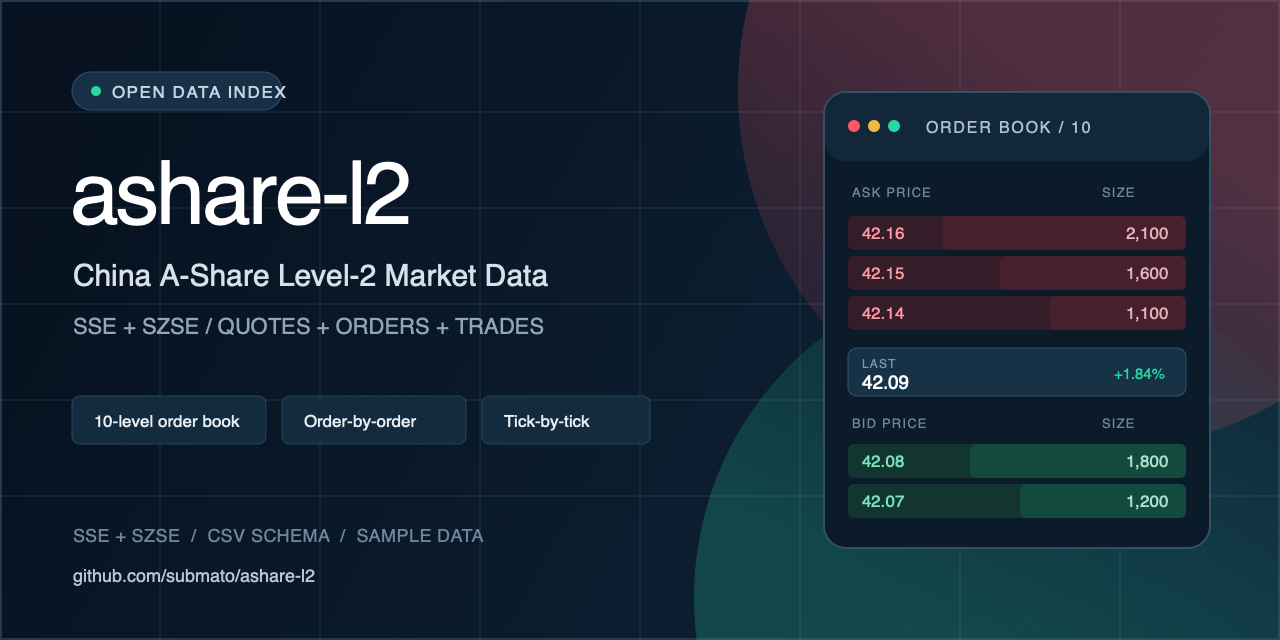
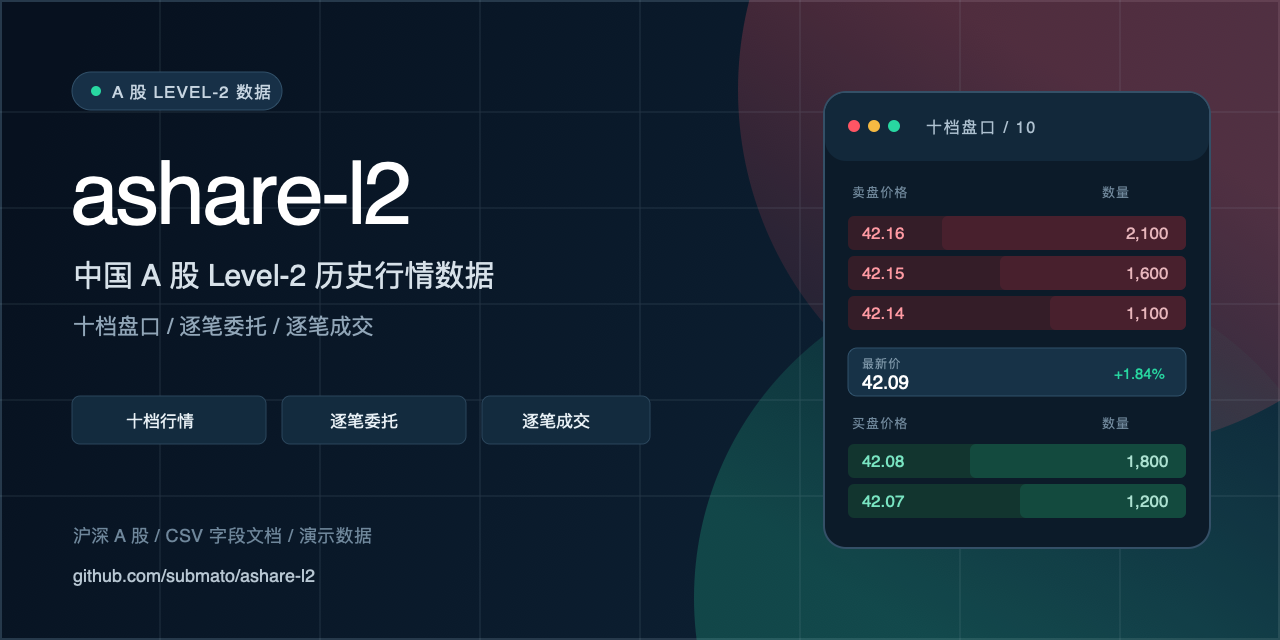
Make Chinese the primary repository language

diff --git a/README.md b/README.md
@@ -1,4 +1,4 @@
-# A 股 Level-2 历史行情数据集 | China A-Share L2 Market Data
+# A 股 Level-2 历史行情数据
 
 [![License: MIT](https://img.shields.io/badge/code%20%26%20docs-MIT-2ea44f.svg)](LICENSE)
 [![Data Format](https://img.shields.io/badge/data-CSV-0969da.svg)](docs/schema.md)
@@ -6,9 +6,9 @@
 
 **ashare-l2 是中国 A 股 Level-2 历史行情数据的公开索引与格式样例**，覆盖沪深市场十档盘口快照、逐笔委托和逐笔成交 CSV，适合量化研究、市场微观结构分析、订单流研究与回测数据准备。
 
-**ashare-l2 is an index and schema reference for China A-share Level-2 market data**, including 10-level order book snapshots, order-by-order events and tick-by-tick trades from the Shanghai and Shenzhen stock markets.
+> English: ashare-l2 is an index and schema reference for China A-share Level-2 market data, including 10-level order book snapshots, order-by-order events and tick-by-tick trades.
 
-[数据下载](#免费数据怎么下载) · [字段说明](docs/schema.md) · [数据卡](docs/data-card.md) · [Python 读取示例](#如何读取-csv) · [English summary](#english-summary) · [FAQ](#常见问题)
+[数据下载](#免费数据怎么下载) · [字段说明](docs/schema.md) · [数据卡](docs/data-card.md) · [Python 读取示例](#如何读取-csv) · [常见问题](#常见问题) · [英文简介](#english-summary)
 
 > [!IMPORTANT]
 > 本 GitHub 仓库托管文档和 `DEMO.SZ` 演示样例，不托管全量历史行情。公开可下载月份以[数据表](#免费数据怎么下载)为准；更长历史区间需联系作者确认。
@@ -137,7 +137,10 @@ Level-1 通常只提供较浅的最优买卖报价和基础成交信息；Level-
 
 GitHub 会识别仓库根目录的 [`CITATION.cff`](CITATION.cff)。引用时建议注明仓库名称、URL、访问日期，以及实际使用的数据月份、股票范围和数据来源。
 
-## English summary
+<a id="english-summary"></a>
+
+<details>
+<summary><strong>English summary</strong></summary>
 
 **ashare-l2 documents and indexes historical Level-2 data for China A-shares.** The repository contains a synthetic `DEMO.SZ` sample with 10-level order book snapshots, order-by-order records and tick-by-tick trades in daily CSV partitions. The repository itself does not host the complete historical archive.
 
@@ -149,6 +152,8 @@ GitHub 会识别仓库根目录的 [`CITATION.cff`](CITATION.cff)。引用时建
 - **Important limitation:** market-data licensing is separate from the MIT license covering repository code and documentation.
 
 For field definitions, see the [schema reference](docs/schema.md). For provenance, intended use and limitations, see the [data card](docs/data-card.md).
+
+</details>
 
 ## 存储建议
 
